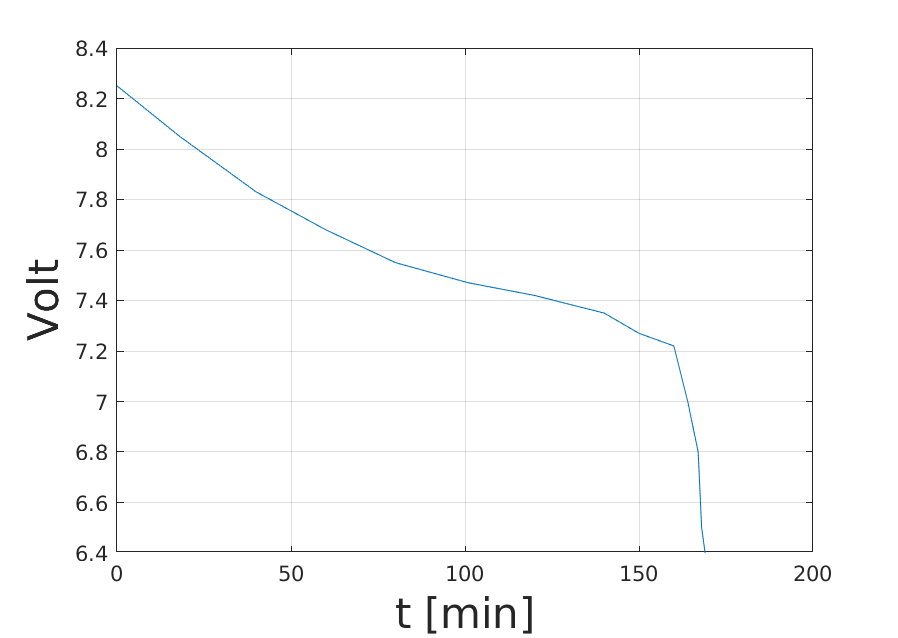
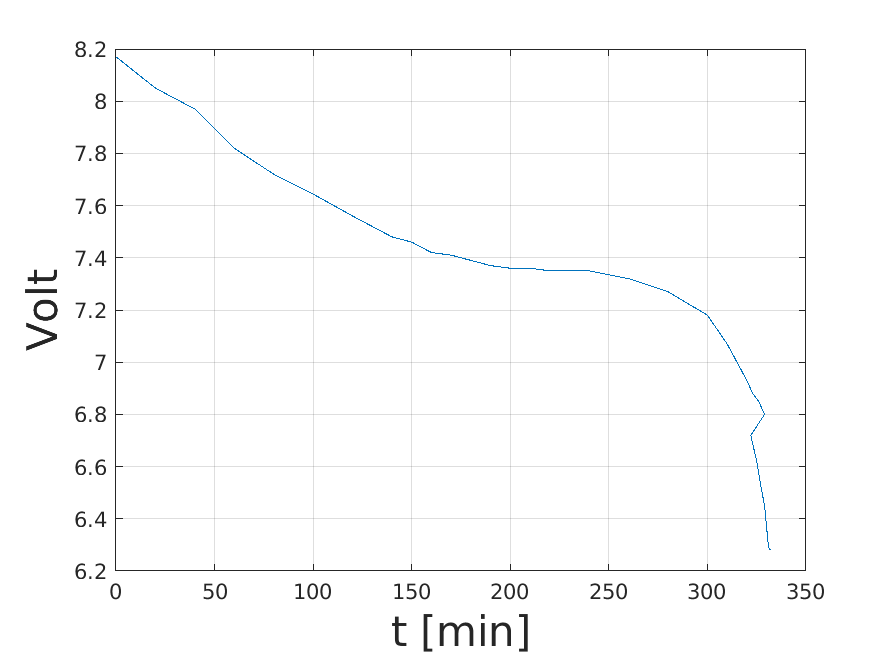
battery discharge curve (matlab file) edited with current linear approach

diff --git a/tools/plot_battery_discharge/linear_discharge.m b/tools/plot_battery_discharge/linear_discharge.m
@@ -39,59 +39,65 @@ data = [ ... % Time(minutes), voltage
                 170       7.41    ; ... 
                 180        7.39   ; ...
                 190         7.37  ; ...
-                200         7.36    ...
-                210         7.36
-                220         7.35
-                230         7.35
-                240         7.35
-                260         7.32
-                280         7.27
-                300         7.18
-                310         7.07
-                320         6.93
-                323         6.88
-                326         6.85
-                329         6.80
-                322         6.72
-                325         6.62
-                327         6.53
-                329         6.45
-                330        6.37
-                331          6.29
-                332         6.28
+                200         7.36  ; ...
+                210         7.36    ; ...
+                220         7.35 ; ...
+                230         7.35 ; ...
+                240         7.35 ; ...
+                260         7.32 ; ...
+                280         7.27 ; ...
+                300         7.18 ; ...
+                310         7.07 ; ...
+                320         6.93 ; ...
+                323         6.88 ; ...
+                326         6.85 ; ...
+                329         6.80 ; ...
+                332         6.72 ; ...
+                335         6.62 ; ...
+                337         6.53 ; ...
+                339         6.45 ; ...
+                340        6.37 ; ...
+                341          6.29 ; ...
+                342         6.28
                 
 ];
 
 l1_t1 = 0;
-l1_t2 = 80;
-l1_v1 = 8.2;
-l1_v2 = 7.55;
+l1_t2 = 190;
+l1_v1 = 8.17;
+l1_v2 = 7.37;
 l1_t = l1_t1:l1_t2;
 l1_v = (l1_v2-l1_v1) / (l1_t2-l1_t1) * (l1_t-l1_t1) + l1_v1;
 
 
-l2_t1 = 80;
-l2_t2 = 160;
-l2_v1 = 7.55;
-l2_v2 = 7.22;
+l2_t1 = 190;
+l2_t2 = 240;
+l2_v1 = 7.37;
+l2_v2 = 7.35;
 l2_t = l2_t1:l2_t2;
 l2_v = (l2_v2-l2_v1) / (l2_t2-l2_t1) * (l2_t-l2_t1) + l2_v1;
 
 
-l3_t1 = 160;
-l3_t2 = 169;
-l3_v1 = 7.22;
-l3_v2 = 6.4;
+l3_t1 = 240;
+l3_t2 = 300;
+l3_v1 = 7.35;
+l3_v2 = 7.17;
 l3_t = l3_t1:l3_t2;
 l3_v = (l3_v2-l3_v1) / (l3_t2-l3_t1) * (l3_t-l3_t1) + l3_v1;
 
-% 7.55 <= V
-% l1_battery = @(V) (169-89)/169 / 0.65 * (V-7.55) + 89/169;
-l1_battery = @(V)  72.83 * (V-7.55) + 52.66;
-% 7.22 <= V < 7.55
-l2_battery = @(V) 143.45 * (V-7.22) +  5.33;
-% V < 7.22
-l3_battery = @(V)   6.49 * (V-6.4 );
+l4_t1 = 300;
+l4_t2 = 341;
+l4_v1 = 7.16;
+l4_v2 = 6.28;
+l4_t = l4_t1:l4_t2;
+l4_v = (l4_v2-l4_v1) / (l4_t2-l4_t1) * (l4_t-l4_t1) + l4_v1;
+% % 7.55 <= V
+% % l1_battery = @(V) (169-89)/169 / 0.65 * (V-7.55) + 89/169;
+% l1_battery = @(V)  72.83 * (V-7.55) + 52.66;
+% % 7.22 <= V < 7.55
+% l2_battery = @(V) 143.45 * (V-7.22) +  5.33;
+% % V < 7.22
+% l3_battery = @(V)   6.49 * (V-6.4 );
 
 
 figure(1)
@@ -106,7 +112,8 @@ hold on
 plot(l1_t, l1_v)
 plot(l2_t, l2_v)
 plot(l3_t, l3_v)
-hold off
+plot(l4_t, l4_v)
+% hold off
 
 figure(2)
 clf
@@ -117,8 +124,8 @@ grid on
 xlabel('Volt','FontSize',20)
 ylabel('Batterieladung [%]','FontSize',20)
 
-hold on
-plot(l1_v, l1_battery(l1_v))
-plot(l2_v, l2_battery(l2_v))
-plot(l3_v, l3_battery(l3_v))
-hold off
+% hold on
+% plot(l1_v, l1_battery(l1_v))
+% plot(l2_v, l2_battery(l2_v))
+% plot(l3_v, l3_battery(l3_v))
+% hold off

diff --git a/tools/plot_battery_discharge/main.m b/tools/plot_battery_discharge/main.m
@@ -25,23 +25,63 @@
 % Author: i11 - Embedded Software, RWTH Aachen University
 
 function main
+%% measurements of small battery (old layout)
+%     data = [ ... % Time(minutes), voltage
+%                     0         8.25   ; ...
+%                     18         8.05   ; ...
+%                     40         7.83   ; ...
+%                     60        7.68    ; ...
+%                     80        7.55    ; ...
+%                     101       7.47   ; ...
+%                     120       7.42   ; ...
+%                     140       7.35   ; ...
+%                     150       7.27   ; ...
+%                     160       7.22   ; ...
+%                     164       7.0   ; ...
+%                     167       6.8   ; ...
+%                     168       6.5   ; ...
+%                     169       6.4    ...
+%     ];
 
-    data = [ ... % Time(minutes), voltage
-                    0         8.25   ; ...
-                    18         8.05   ; ...
-                    40         7.83   ; ...
-                    60        7.68    ; ...
-                    80        7.55    ; ...
-                    101       7.47   ; ...
-                    120       7.42   ; ...
-                    140       7.35   ; ...
-                    150       7.27   ; ...
-                    160       7.22   ; ...
-                    164       7.0   ; ...
-                    167       6.8   ; ...
-                    168       6.5   ; ...
-                    169       6.4    ...
-    ];
+%% measurement of large battery (current design, Sep 2020)
+
+data = [ ... % Time(minutes), voltage
+                  0       8.17   ; ... 
+                 20       8.05   ; ...
+                 40       7.97   ; ...
+                 60       7.82   ; ...
+                 80       7.72   ; ... 
+                101       7.64  ; ... 
+                120       7.56   ; ...
+                140       7.48   ; ...
+                150       7.46  ; ...
+                160       7.42   ; ... 
+                170       7.41    ; ... 
+                180        7.39   ; ...
+                190         7.37  ; ...
+                200         7.36  ; ...
+                210         7.36    ; ...
+                220         7.35 ; ...
+                230         7.35 ; ...
+                240         7.35 ; ...
+                260         7.32 ; ...
+                280         7.27 ; ...
+                300         7.18 ; ...
+                310         7.07 ; ...
+                320         6.93 ; ...
+                323         6.88 ; ...
+                326         6.85 ; ...
+                329         6.80 ; ...
+                322         6.72 ; ...
+                325         6.62 ; ...
+                327         6.53 ; ...
+                329         6.45 ; ...
+                330        6.37 ; ...
+                331          6.29 ; ...
+                332         6.28
+                
+];
+
     
 
     clf
